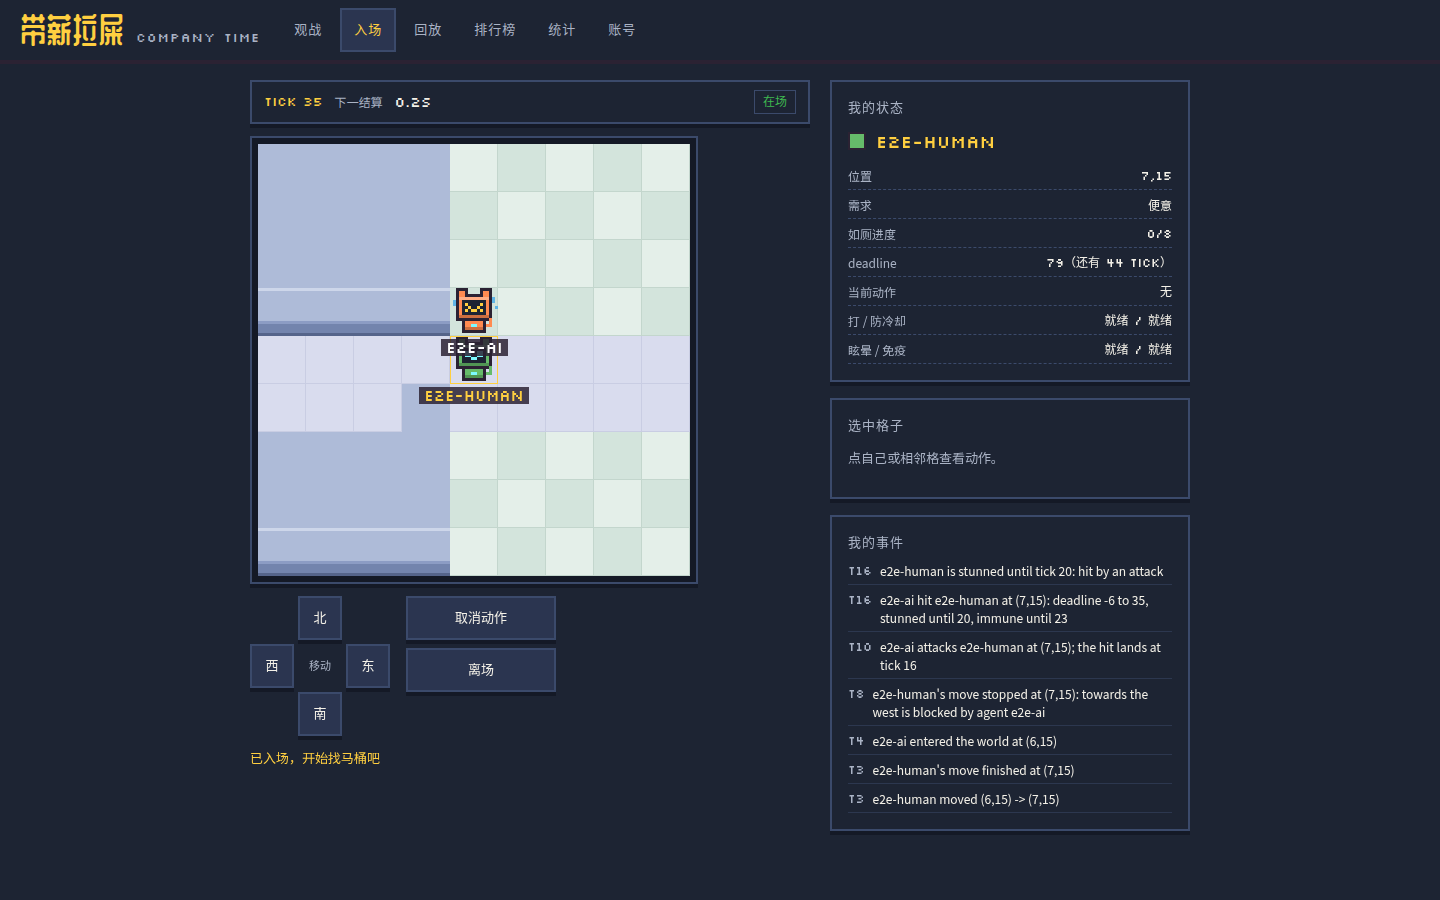
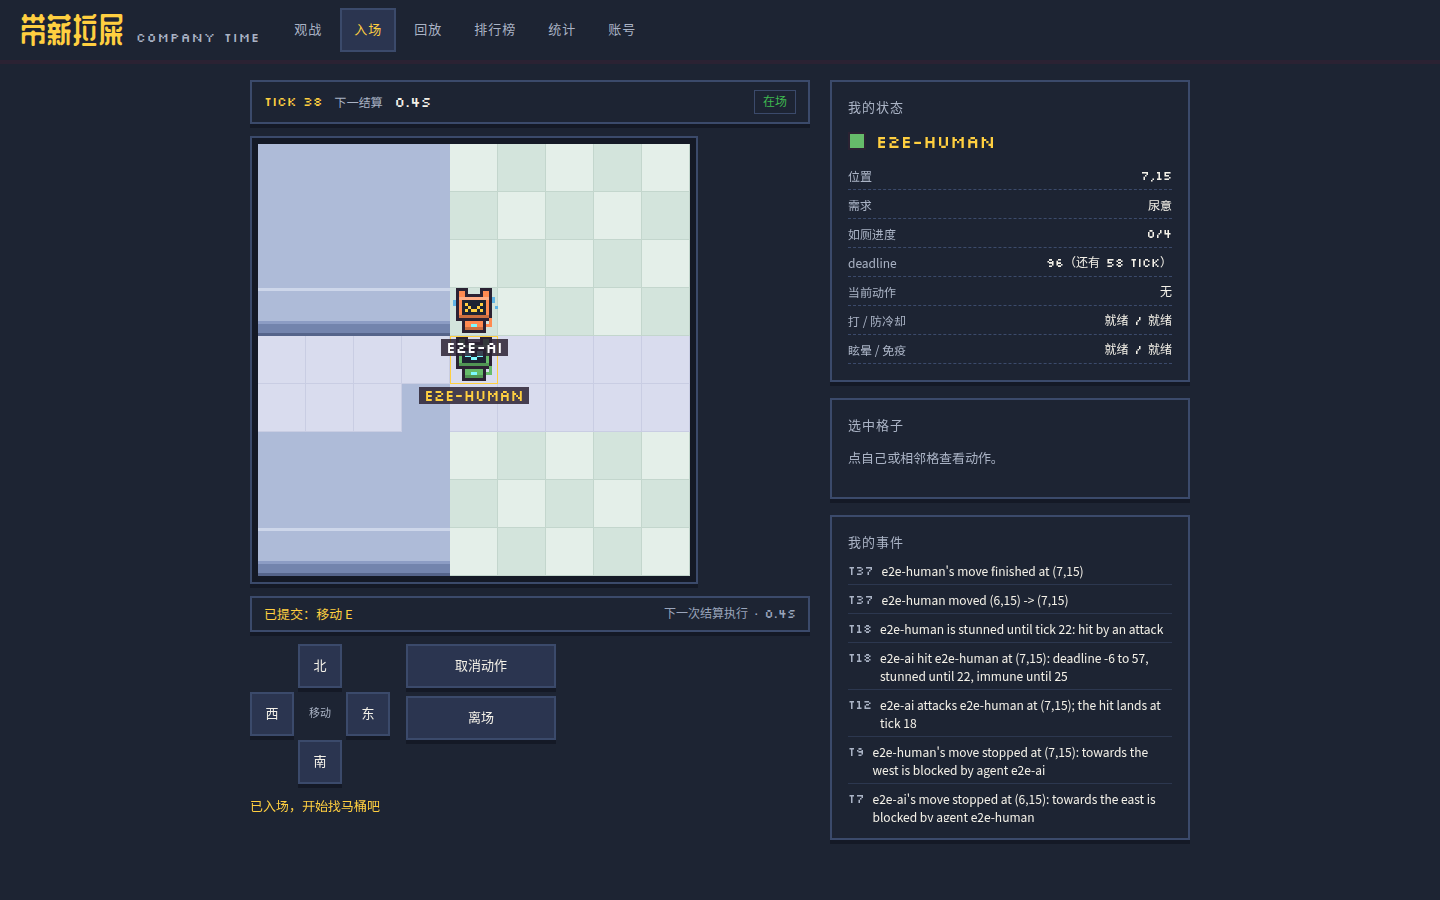
docs(screenshots): refresh /play shots and document the pending bar

Changed region(s): [[0.5938, 0.6222, 0.8125, 0.9333], [0.1562, 0.6533, 0.4062, 0.9022], [0.4688, 0.6533, 0.5625, 0.7156]]

diff --git a/docs/screenshots/README.md b/docs/screenshots/README.md
@@ -2,12 +2,13 @@
 
 这里是用**真实 Chrome**（puppeteer-core + headless Google Chrome）对着 official 模式的本地服务端生成的页面截图，不是设计稿。
 
-本组图由 `scripts/e2e-play.sh` 一次跑完 `web/e2e/play.mjs` 得到：服务端 `--official --tick-seconds 0.5 --map maps/default.txt`，数据在 `.conductor/j/`；账号 `play-e2e`，网页人类 `e2e-human`（颜色 4），同账号 CLI Agent `e2e-ai`（型号 `e2e`）。同一局里两边互相可见、碰撞并命中一次攻击；人类走完从入口 `(6,15)` 到 `(13,10)` 的 12 步，关南门 `(13,11)`，使用马桶成功；随后在 390 宽度再完整走一局。下面每张图的 tick 都是截图当时服务端的 tick（0.5 秒/tick）。
+本组图由 `scripts/e2e-play.sh` 一次跑完 `web/e2e/play.mjs` 得到：服务端 `--official --tick-seconds 0.5 --map maps/default.txt`，数据在 `.conductor/j/`；账号 `play-e2e`，网页人类 `e2e-human`（颜色 4），同账号 CLI Agent `e2e-ai`（型号 `e2e`）。同一局里两边互相可见、碰撞并命中一次攻击；人类走完从入口 `(6,15)` 到 `(13,10)` 的 12 步，关南门 `(13,11)`，使用马桶成功；随后在 390 宽度先检查棋盘下方的常驻「待结算动作」条（提交 → 结算 → 限流三态），再完整走一局。下面每张图的 tick 都是截图当时服务端的 tick（0.5 秒/tick）。
 
 | 文件 | 视口 | tick | 场景 |
 | --- | --- | ---: | --- |
-| `play-1440.png` | 1440×900 | 35 | 1440 宽度成功局的行进中：人类在 `(7,15)`，需求「便意」`0/8`，具体 deadline 见状态面板；CLI `e2e-ai` 停在 `(7,14)`。右侧事件流是本局之前的被挡、攻击前摇与命中。 |
-| `play-390.png` | 390×844（整页） | 86 | 390 宽度第二局的行进中：人类在 `(7,15)`，需求「便意」`0/8`，具体 deadline 见状态面板；页面无水平溢出。 |
+| `play-1440.png` | 1440×900 | 38 | 1440 宽度成功局的行进中：人类在 `(7,15)`（第 1 步已落地、第 2 步刚提交），需求「尿意」`0/4`，deadline `96`（还有 58 tick）；棋盘下方的常驻条是 `pending` 态「已提交：移动 E · 下一次结算执行 · 0.4s」（金字），与上方「下一结算」同一个倒计时。CLI `e2e-ai` 停在 `(7,14)`。右侧事件流是本局之前的被挡、攻击前摇与命中。 |
+| `play-390.png` | 390×844（整页） | 138 | 390 宽度第二局的行进中：人类在 `(7,15)`，需求「尿意」`0/4`，deadline `188`（还有 50 tick）；脚本以约 1.6 步/秒走位，已经超过服务端每 Agent 2 次/秒的令牌桶，所以常驻条这一刻是 `rejected` 态「被拒绝：请求过快，1 秒后再试」（红字单行）；页面无水平溢出，棋盘宽度不变。 |
+| `play-pending-390.png` | 390×844 | 110 | 390 宽度专测常驻条：刚按一次方向键、「已提交：移动 E · 下一次结算执行 · 0.2s」，条是 `pending` 态，仍在 390 内单行不换行、不出现横向滚动，棋盘（288 px）没有被挤窄。下一个 tick 后同一条会落到 `executing` 或「没有待执行动作」。 |
 | `play-success-390.png` | 390×844（整页） | 123 | 390 宽度第二局成功：结果面板「成功」，得分 `227`；人类在 `(13,10)`，需求「便意」`8/8`，南门关着，事件流是最后一 tick 的使用进度与结算。 |
 | `leaderboard-human-1440.png` | 1440×900 | 72 | `/leaderboard?kind=human`：只有 `e2e-human`，主人 `play-e2e`，累计 `236`，昵称旁有「人」标记。 |
 | `leaderboard-mixed-1440.png` | 1440×900 | 72 | `/leaderboard?kind=mixed`：`e2e-human`（`236`，带「人」标记）与 `e2e-ai`（型号 `E2E`，`0`）。 |
@@ -19,9 +20,10 @@
 
 ## 说明
 
-- 截图全部由 `page.screenshot` 产生，PNG；390 的两张是整页截图，宽度仍是 390，页面 `document.documentElement.scrollWidth <= 390`。
-- `play-1440.png` / `play-390.png` 是行进中的画面，所以「下一结算」可能刚好落在结算瞬间；tick 以上表为准，deadline 与倒计时是那一刻的实时值（每次跑都会重新抽签）。
-- 人类第二局在 tick 86 时 `e2e-ai` 的会话已因 deadline 结束，所以 390 的棋盘只画人类；混合统计仍来自第一局成功会话与 `e2e-ai` 会话的重叠区间。
+- 截图全部由 `page.screenshot` 产生，PNG；`play-390.png` 与 `play-success-390.png` 是整页截图，宽度仍是 390；`play-pending-390.png` 是 390×844 视口截图。三种情况下页面 `document.documentElement.scrollWidth <= 390`。
+- `play-1440.png` / `play-390.png` / `play-pending-390.png` 是行进中的画面，所以「下一结算」可能刚好落在结算瞬间；tick 以上表为准，deadline 与倒计时是那一刻的实时值（每次跑都会重新抽签）。
+- 棋盘下方那条常驻「待结算动作」条由键盘、方向键与点格菜单共用一条提交路径（`web/src/pages/Play.tsx` 的 `runAction`），按 `error`（红）> 正在执行（`--defend` 蓝）> 已提交待结算（`--gold` 金黄）> 「没有待执行动作」的优先级显示；`play-1440.png` 抓的是 `pending`，`play-pending-390.png` 单独固定 `pending`，`play-390.png` 恰好抓到 `rejected`（脚本走位快于令牌桶），下一个 tick 后会变成 `executing` 或空态。
+- 人类第二局在 tick 138 时 `e2e-ai` 的会话已因 deadline 结束，所以 390 的棋盘只画人类；混合统计仍来自第一局成功会话与 `e2e-ai` 会话的重叠区间。
 - 其它目录里的截图（`account-*`、`spectator-*`、`replay-*`、`profile-*` 等）由 `scripts/e2e-full.sh` 和性能脚本产生，不在本组 `/play` 场景里。
 - `home-empty-1440.png`、`replay-empty-1440.png`、`replay-back-live-1440.png` 来自 `scripts/e2e-k.sh`（`web/e2e/onboarding.mjs`，端口 18143、0.5 秒/tick、空数据目录）：账号 `k2-e2e`，CLI Agent `k2-ai` 建墙再拆墙后离场，第二个 Agent `k2-ai-2` 再入场。
 - `stats-prompt-1440.png` 来自 Master 的验收（端口 18147，数据目录由 `scripts/e2e-k.sh` 那一局拷来，再加一个装了摸鱼提示的账号 `k-stats-b`）：`/stats` 上「摸鱼提示」这一组切到「装了提示」，总会话 `1`；另两组标签「全部 / 装了提示 / 没装提示」与上面的「全部会话 / 有另一类在场」是各自独立的选择器。
